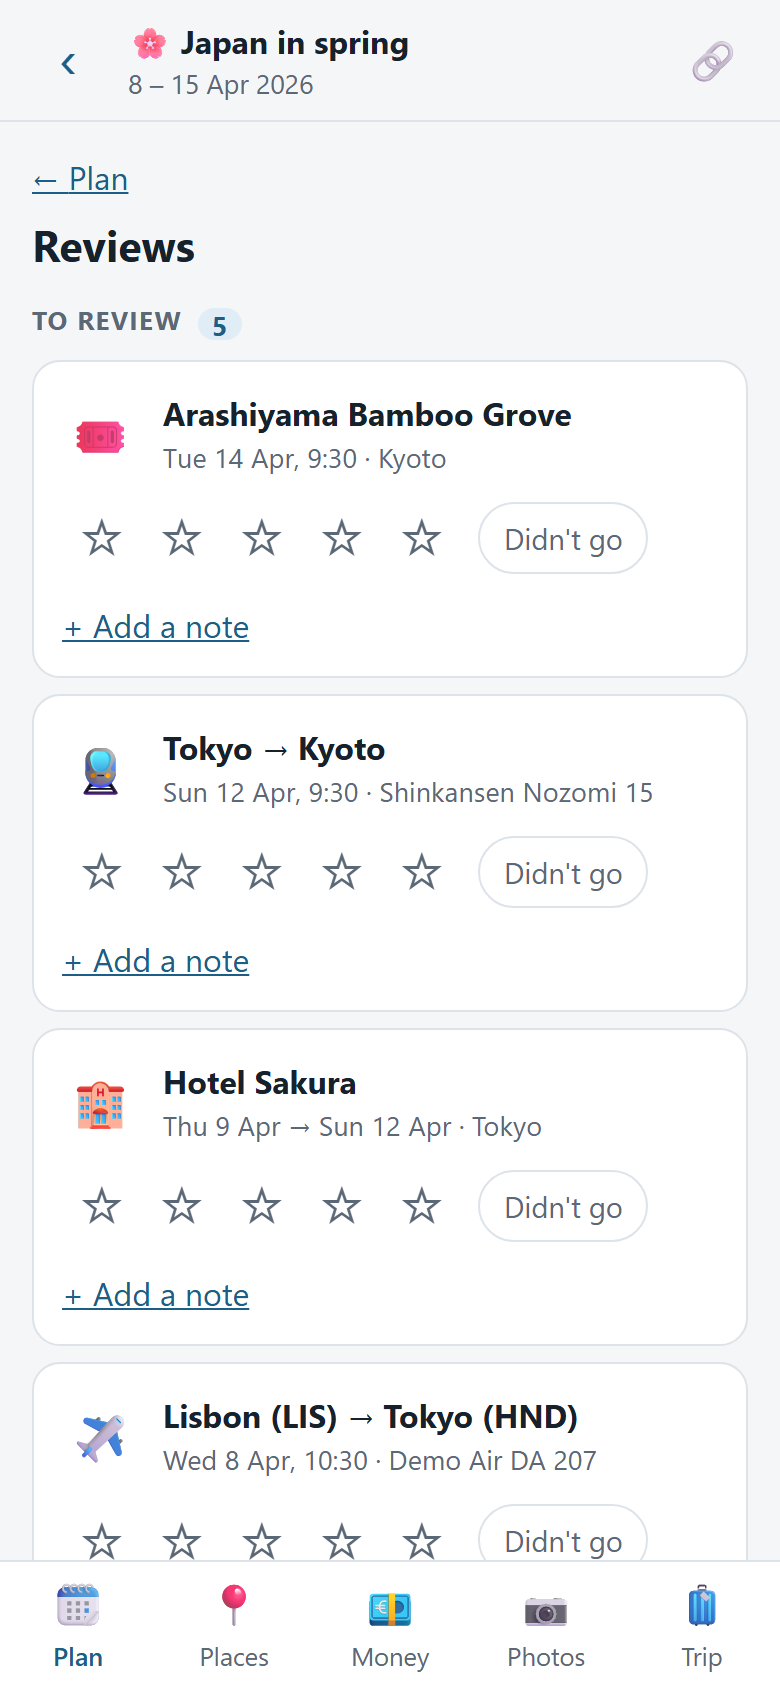
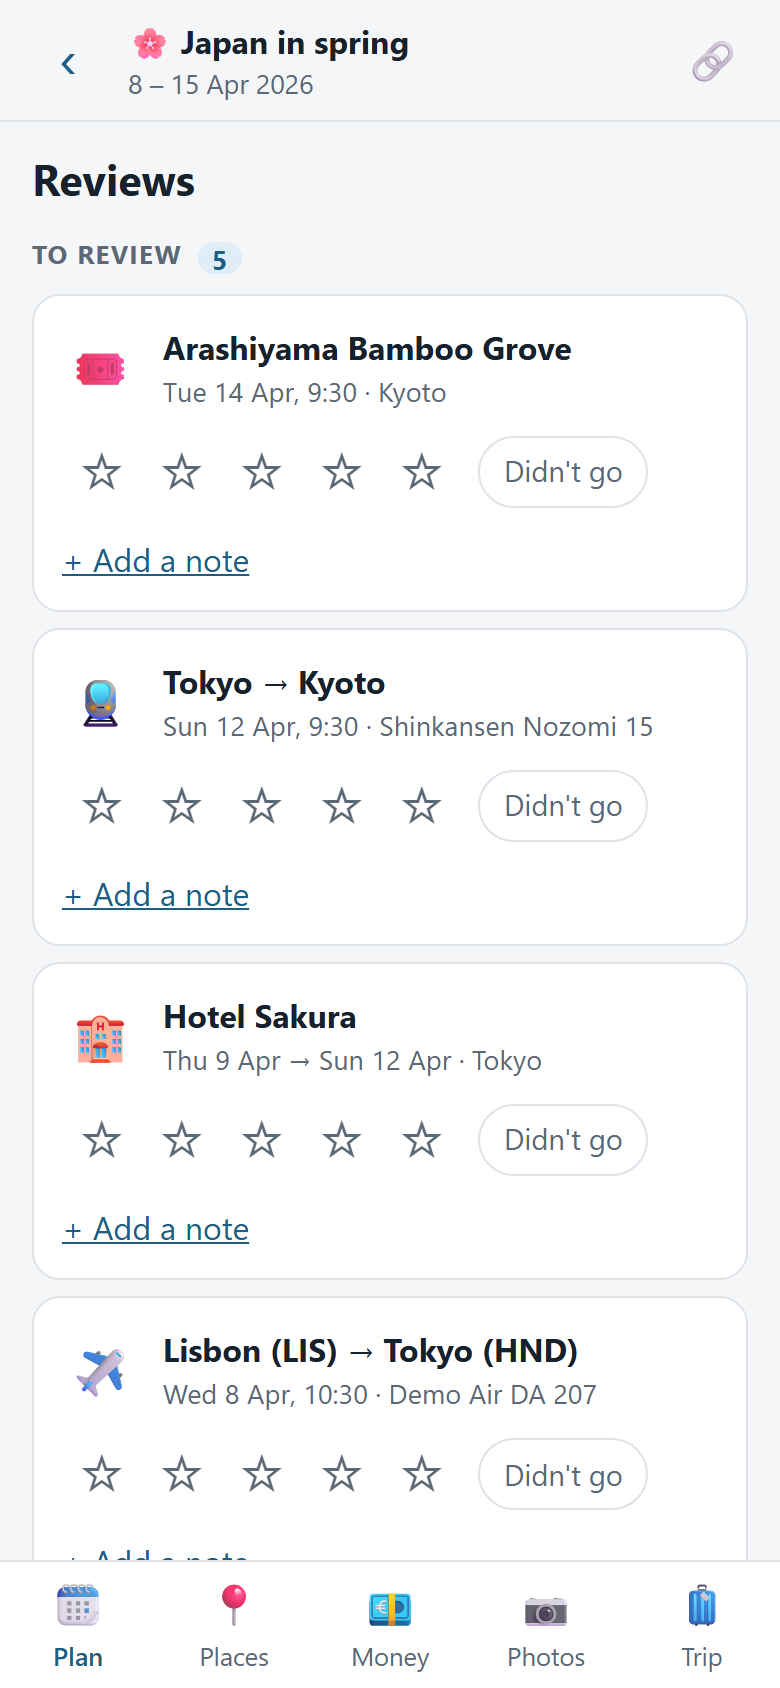
Back arrow goes back one screen (#41)
Inside a trip, the **‹** arrow at the top left now goes back one screen,
like the phone's back button. On the five tabs it still goes to the trip
list. Navigation only: no data, link, backup or sync changes.

- `src/ui/tripNav.ts`: `TABS` and `tabOf` moved here from
`TripLayout.tsx`, plus `topBarBack(pathname, over)`, which picks the
arrow's target (tested in `tripNav.test.ts`, 21 cases)
- `TripLayout.tsx`: tab pages keep `Link to="/"` labelled "All trips".
Every other trip page gets a "Back" button that calls `navigate(-1)`,
or, with nothing to go back to (a page opened fresh from a link),
replaces itself with its tab
- The small "← Plan / Places / Money / Trip / Back" links under the top
bar are removed from 11 trip pages, along with the attachment page's
`Back` component. New trip keeps "← Your trips"
- `GUIDE.md` gets one new paragraph, and the 5 screenshots that showed
the old links are re-taken
- Version 0.9.4 and a CHANGELOG entry
- Spec: `specs/back-arrow.md`, updated to match what shipped

Tested:
- `npm test` (253), lint, typecheck and build pass.
- `npm run guide:screenshots` finishes, so it still finds "All trips" on
Photos. It needs `npm run dev` running.

Manual checks still to do (phone width):
- On each of the five tabs, ‹ goes to the trip list.
- Plan → Add an activity → ‹ shows the Plan. After Save, ‹ on the
activity's page also shows the Plan.
- Activity → ✏ Edit → ‹ shows the activity → ‹ shows the Plan.
[…]

diff --git a/src/ui/TripLayout.tsx b/src/ui/TripLayout.tsx
@@ -1,6 +1,6 @@
 import { useLiveQuery } from 'dexie-react-hooks'
 import { useEffect } from 'react'
-import { Link, Outlet, useLocation, useParams } from 'react-router'
+import { Link, Outlet, useLocation, useNavigate, useParams } from 'react-router'
 import { setSetting, SETTINGS } from '../db/db'
 import { tripPhase } from '../domain/itinerary'
 import { EmptyState } from './components/bits'
@@ -8,30 +8,13 @@ import { ServerGoneNotice } from './components/ServerGoneNotice'
 import { fmtDayRange } from './format'
 import { useToday } from './hooks'
 import { loadTrip, needsLinks, TripContext, tripPath } from './tripData'
-
-const TABS = [
-  { key: 'plan', path: '', icon: '🗓', label: 'Plan' },
-  { key: 'places', path: 'places', icon: '📍', label: 'Places' },
-  { key: 'money', path: 'money', icon: '💶', label: 'Money' },
-  { key: 'photos', path: 'photos', icon: '📷', label: 'Photos' },
-  { key: 'trip', path: 'trip', icon: '🧳', label: 'Trip' },
-] as const
-
-/** Which tab a page belongs to, from the part of the path after /trips/<id>/. */
-function tabOf(section: string | undefined, over: boolean): (typeof TABS)[number]['key'] {
-  if (section === 'places') return 'places'
-  // The Plan tab leads to the report once the trip is over; before that, the Trip tab.
-  if (section === 'report') return over ? 'plan' : 'trip'
-  if (section === 'money' || section === 'expenses' || section === 'exchanges') return 'money'
-  if (section === 'photos' || section === 'files') return 'photos'
-  if (section === 'trip' || section === 'edit' || section === 'share' || section === 'server') return 'trip'
-  return 'plan'
-}
+import { TABS, tabOf, topBarBack } from './tripNav'
 
 export function TripLayout() {
   const { tripId = '' } = useParams()
   const data = useLiveQuery(() => loadTrip(tripId), [tripId])
   const { pathname } = useLocation()
+  const navigate = useNavigate()
   const today = useToday()
   const found = Boolean(data)
 
@@ -55,15 +38,31 @@ export function TripLayout() {
   }
 
   const { trip } = data
-  const active = tabOf(pathname.split('/')[3], tripPhase(trip, today).phase === 'past')
+  const over = tripPhase(trip, today).phase === 'past'
+  const active = tabOf(pathname.split('/')[3], over)
+  const back = topBarBack(pathname, over)
   const showUnsent = needsLinks(data)
   return (
     <TripContext.Provider value={data}>
       <header className="topbar">
         <div className="topbar-inner">
-          <Link className="icon-btn back" to="/" aria-label="All trips">
-            ‹
-          </Link>
+          {'to' in back ? (
+            <Link className="icon-btn back" to="/" aria-label="All trips">
+              ‹
+            </Link>
+          ) : (
+            <button
+              type="button"
+              className="icon-btn back"
+              aria-label="Back"
+              onClick={() => {
+                if ((window.history.state as { idx?: number } | null)?.idx) void navigate(-1)
+                else void navigate(back.fallback, { replace: true })
+              }}
+            >
+              ‹
+            </button>
+          )}
           <div className="topbar-title">
             <strong>
               {trip.emoji ?? '🧳'} {trip.name}

diff --git a/src/ui/items/attachments.tsx b/src/ui/items/attachments.tsx
@@ -8,7 +8,7 @@ import { openFile, shareFile } from '../../lib/shareSheet'
 import { fetchFull, retryUpload } from '../../sync/files'
 import { attachableItems, isPhoto, ownerFinder, parseTarget, photoTime, stateFinder, stateText, targetBooking, targetOf, tripPhotos, useObjectUrl } from '../attachments'
 import { BelongsToField, WholeBookingField } from '../components/Attachments'
-import { BackLink, DetailHead, Notice } from '../components/bits'
+import { DetailHead, Notice } from '../components/bits'
 import { NotesField, TextField } from '../components/fields'
 import { fmtBytes, fmtDayTime, fmtTimestamp } from '../format'
 import { usable, useServer } from '../hooks'
@@ -24,18 +24,6 @@ export function AttachmentPage() {
   const a = t.attachments.find((x) => x.id === itemId)
   if (!a) return <ItemGone backTo={tripPath(t.trip.id, 'photos')} />
   return <AttachmentView key={a.id} a={a} />
-}
-
-/** Back to where it was opened from (an item, the Photos tab), or to the Photos tab for a link opened afresh. */
-function Back({ fallback }: { fallback: string }) {
-  const navigate = useNavigate()
-  const opened = Boolean((window.history.state as { idx?: number } | null)?.idx)
-  if (!opened) return <BackLink to={fallback}>Photos</BackLink>
-  return (
-    <button type="button" className="link small back-link" onClick={() => navigate(-1)}>
-      ← Back
-    </button>
-  )
 }
 
 function AttachmentView({ a }: { a: Attachment }) {
@@ -83,7 +71,6 @@ function AttachmentView({ a }: { a: Attachment }) {
 
   return (
     <article className="stack">
-      <Back fallback={back} />
       {!isPhoto(a) && <DetailHead emoji="📄" title={a.name} subtitle={fmtBytes(a.size)} />}
       {image &&
         (full || preview ? (

diff --git a/src/ui/tripNav.ts b/src/ui/tripNav.ts
@@ -1,0 +1,29 @@
+import { tripPath } from './tripData'
+
+export const TABS = [
+  { key: 'plan', path: '', icon: '🗓', label: 'Plan' },
+  { key: 'places', path: 'places', icon: '📍', label: 'Places' },
+  { key: 'money', path: 'money', icon: '💶', label: 'Money' },
+  { key: 'photos', path: 'photos', icon: '📷', label: 'Photos' },
+  { key: 'trip', path: 'trip', icon: '🧳', label: 'Trip' },
+] as const
+
+/** Which tab a page belongs to, from the part of the path after /trips/<id>/. */
+export function tabOf(section: string | undefined, over: boolean): (typeof TABS)[number]['key'] {
+  if (section === 'places') return 'places'
+  // The Plan tab leads to the report once the trip is over; before that, the Trip tab.
+  if (section === 'report') return over ? 'plan' : 'trip'
+  if (section === 'money' || section === 'expenses' || section === 'exchanges') return 'money'
+  if (section === 'photos' || section === 'files') return 'photos'
+  if (section === 'trip' || section === 'edit' || section === 'share' || section === 'server') return 'trip'
+  return 'plan'
+}
+
+/** Where the top bar's arrow goes: the trip list on tab pages, otherwise back (or to the page's tab if there is no back). */
+export function topBarBack(pathname: string, over: boolean): { to: '/' } | { fallback: string } {
+  const parts = pathname.split('/')
+  const tripId = parts[2] ?? ''
+  const rest = parts.slice(3).filter(Boolean)
+  if (rest.length === 0 || (rest.length === 1 && TABS.some((t) => t.path !== '' && t.path === rest[0]))) return { to: '/' }
+  return { fallback: tripPath(tripId, TABS.find((t) => t.key === tabOf(rest[0], over))!.path) }
+}

diff --git a/src/ui/tripNav.test.ts b/src/ui/tripNav.test.ts
@@ -1,0 +1,29 @@
+import { describe, expect, it } from 'vitest'
+import { topBarBack } from './tripNav'
+
+describe('topBarBack', () => {
+  it.each(['/trips/t1', '/trips/t1/', '/trips/t1/places', '/trips/t1/money', '/trips/t1/photos', '/trips/t1/trip'])(
+    '%s goes to the trip list',
+    (p) => expect(topBarBack(p, false)).toEqual({ to: '/' }),
+  )
+
+  it.each([
+    ['/trips/t1/activities/new', '/trips/t1'],
+    ['/trips/t1/stays/s1', '/trips/t1'],
+    ['/trips/t1/transport/r1/edit', '/trips/t1'],
+    ['/trips/t1/reviews', '/trips/t1'],
+    ['/trips/t1/places/p1', '/trips/t1/places'],
+    ['/trips/t1/places/new', '/trips/t1/places'],
+    ['/trips/t1/expenses/e1', '/trips/t1/money'],
+    ['/trips/t1/exchanges/new', '/trips/t1/money'],
+    ['/trips/t1/files/f1', '/trips/t1/photos'],
+    ['/trips/t1/share', '/trips/t1/trip'],
+    ['/trips/t1/edit', '/trips/t1/trip'],
+    ['/trips/t1/server', '/trips/t1/trip'],
+  ])('%s falls back to %s', (p, fallback) => expect(topBarBack(p, false)).toEqual({ fallback }))
+
+  it('sends the report to the Plan once the trip is over, the Trip tab before', () => {
+    expect(topBarBack('/trips/t1/report', true)).toEqual({ fallback: '/trips/t1' })
+    expect(topBarBack('/trips/t1/report', false)).toEqual({ fallback: '/trips/t1/trip' })
+  })
+})

diff --git a/src/ui/pages/ReportPage.tsx b/src/ui/pages/ReportPage.tsx
@@ -7,11 +7,11 @@ import { fileSlug } from '../../lib/download'
 import { reportFile } from '../../lib/reportFile'
 import { shareFile } from '../../lib/shareSheet'
 import { photoTime, tripPhotos, useTripFiles } from '../attachments'
-import { BackLink, Notice } from '../components/bits'
+import { Notice } from '../components/bits'
 import { ReportView } from '../components/ReportView'
 import { fmtTimestamp, plural } from '../format'
 import { useNow, useToday } from '../hooks'
-import { nameOf, tripPath, useTrip, type TripData } from '../tripData'
+import { nameOf, useTrip, type TripData } from '../tripData'
 
 /** What the report is made from: the trip as it is on this phone, and the photos anyone may see. */
 const reportInput = (t: TripData): ReportInput => ({
@@ -95,7 +95,6 @@ export function ReportPage() {
   return (
     <>
       <div className="stack no-print">
-        <BackLink to={tripPath(tripId, over ? '' : 'trip')}>{over ? 'Plan' : 'Trip'}</BackLink>
         <h2>Trip report</h2>
         <Status over={over} kept={Boolean(kept)} unreadable={Boolean(t.report && !kept)} synced={synced} changes={changes} onMakeAgain={() => void makeAgain()} />
         <div className="segmented" role="tablist" aria-label="Version">

diff --git a/src/ui/items/places.tsx b/src/ui/items/places.tsx
@@ -3,7 +3,7 @@ import { Link, useParams, useSearchParams } from 'react-router'
 import { patchRecord } from '../../db/actions'
 import type { Place, PlaceCategory } from '../../db/types'
 import { mapQuery, safeHttpUrl } from '../../domain/links'
-import { BackLink, DetailHead, EmptyState } from '../components/bits'
+import { DetailHead, EmptyState } from '../components/bits'
 import { ChoiceChips, NotesField, TextField } from '../components/fields'
 import { AddressField, CityField } from '../components/PlaceFields'
 import { MapLinks, WebLink } from '../components/ItemLinks'
@@ -218,7 +218,6 @@ export function PlacePage() {
   const link = safeHttpUrl(place.link)
   return (
     <article className="stack">
-      <BackLink to={back}>Places</BackLink>
       <DetailHead emoji={category.emoji} title={place.name} subtitle={[category.label, place.city].filter(Boolean).join(' · ')} />
       <div className="actions">
         <button type="button" className="toggle-chip" aria-pressed={Boolean(place.mustSee)} onClick={() => void patchRecord('places', place.id, { mustSee: place.mustSee ? undefined : true })}>

diff --git a/src/ui/items/transport.tsx b/src/ui/items/transport.tsx
@@ -6,7 +6,7 @@ import { transportDuration, tripPhase } from '../../domain/itinerary'
 import { mapQuery } from '../../domain/links'
 import { airportCode } from '../../domain/places'
 import { isDay, zoneCity, zonedInstant } from '../../domain/time'
-import { BackLink, CopyCode, DetailHead } from '../components/bits'
+import { CopyCode, DetailHead } from '../components/bits'
 import { ChoiceChips, DateTimeField, NotesField, TextField, ZoneField } from '../components/fields'
 import { AirportField, CityField } from '../components/PlaceFields'
 import { CalendarLinks, MapLinks, WebLink } from '../components/ItemLinks'
@@ -128,7 +128,6 @@ export function TransportPage() {
   const zones = r.departTimeZone === arriveZone ? [r.departTimeZone] : [r.departTimeZone, arriveZone]
   return (
     <article className="stack">
-      <BackLink to={back}>Plan</BackLink>
       <DetailHead emoji={mode.emoji} title={`${r.from} → ${r.to}`} subtitle={[mode.label, r.carrier, r.number].filter(Boolean).join(' · ')} />
       <section className="card">
         <dl className="facts">

diff --git a/src/ui/items/stays.tsx b/src/ui/items/stays.tsx
@@ -5,7 +5,7 @@ import { stayEvent } from '../../domain/calendar'
 import { tripPhase } from '../../domain/itinerary'
 import { mapQuery } from '../../domain/links'
 import { addDays, daysBetween, isDay, toDay, zoneCity } from '../../domain/time'
-import { BackLink, CopyCode, DetailHead } from '../components/bits'
+import { CopyCode, DetailHead } from '../components/bits'
 import { ChoiceChips, DateTimeField, NotesField, TextField, ZoneField } from '../components/fields'
 import { AddressField, CityField } from '../components/PlaceFields'
 import { CalendarLinks, MapLinks, PhoneLink, WebLink } from '../components/ItemLinks'
@@ -127,7 +127,6 @@ export function StayPage() {
   const kind = labelOf(STAY_KINDS, stay.kind)
   return (
     <article className="stack">
-      <BackLink to={back}>Plan</BackLink>
       <DetailHead emoji={kind.emoji} title={stay.name} subtitle={[kind.label, stay.city].filter(Boolean).join(' · ')} />
       <section className="card">
         <dl className="facts">

diff --git a/src/ui/items/expenses.tsx b/src/ui/items/expenses.tsx
@@ -20,7 +20,7 @@ import {
 } from '../../domain/expenses'
 import { tripPhase } from '../../domain/itinerary'
 import { isDay } from '../../domain/time'
-import { BackLink, DetailHead, EmptyState, Notice } from '../components/bits'
+import { DetailHead, EmptyState, Notice } from '../components/bits'
 import { ChoiceChips, CurrencySelect, Field, NotesField, TextField } from '../components/fields'
 import { UnsentNotice } from '../components/UnsentNotice'
 import { fmtDay, fmtMoney, fmtPlain, plural } from '../format'
@@ -650,7 +650,6 @@ export function ExpensePage() {
   const paidWith = paidWithOf(e, cur)
   return (
     <article className="stack">
-      <BackLink to={back}>Money</BackLink>
       <DetailHead emoji={e.transfer ? '🤝' : label.emoji} title={e.title} subtitle={e.transfer ? 'Settle-up payment' : label.label} />
       <section className="card">
         <p className="big-number">{fmtMoney(e.amount, e.currency)}</p>

diff --git a/src/ui/pages/MoveToServerPage.tsx b/src/ui/pages/MoveToServerPage.tsx
@@ -2,7 +2,7 @@ import { useState } from 'react'
 import { Link, useNavigate } from 'react-router'
 import { moveTripToServer } from '../../db/actions'
 import type { ServerConfig } from '../../db/serverState'
-import { BackLink, EmptyState } from '../components/bits'
+import { EmptyState } from '../components/bits'
 import { Field, FormError } from '../components/fields'
 import { usable, useServer } from '../hooks'
 import { tripPath, useTrip, type TripData } from '../tripData'
@@ -77,7 +77,6 @@ function MoveForm({ t, server }: { t: TripData; server: ServerConfig }) {
 
   return (
     <form className="form" onSubmit={(e) => void onSubmit(e)}>
-      <BackLink to={tripPath(t.trip.id, 'trip')}>Trip</BackLink>
       <h2>Put “{t.trip.name}” on the server</h2>
       <p className="muted">
         Say who each traveller is on the server. They get the trip, and every change after it, by themselves. Anyone not on the server

diff --git a/src/ui/items/activities.tsx b/src/ui/items/activities.tsx
@@ -5,7 +5,7 @@ import { activityEvent } from '../../domain/calendar'
 import { tripPhase } from '../../domain/itinerary'
 import { mapQuery } from '../../domain/links'
 import { isDay, zoneCity } from '../../domain/time'
-import { BackLink, CopyCode, DetailHead } from '../components/bits'
+import { CopyCode, DetailHead } from '../components/bits'
 import { DateTimeField, Field, NotesField, TextField, ZoneField } from '../components/fields'
 import { AddressField, CityField } from '../components/PlaceFields'
 import { CalendarLinks, MapLinks, WebLink } from '../components/ItemLinks'
@@ -104,7 +104,6 @@ export function ActivityPage() {
   const place = t.places.find((p) => p.id === a.placeId)
   return (
     <article className="stack">
-      <BackLink to={back}>Plan</BackLink>
       <DetailHead emoji="🎟" title={a.title} subtitle={a.city} />
       <section className="card">
         <dl className="facts">

diff --git a/src/ui/pages/SharePage.tsx b/src/ui/pages/SharePage.tsx
@@ -4,10 +4,10 @@ import { exportTripFile, readTables } from '../../db/backupIO'
 import { downloadJSON, fileSlug } from '../../lib/download'
 import { shareUrl } from '../../lib/shareSheet'
 import { LONG_LINK_CHARS, tripLink } from '../../lib/tripLink'
-import { BackLink, Notice } from '../components/bits'
+import { Notice } from '../components/bits'
 import { Field } from '../components/fields'
 import { plural } from '../format'
-import { needsLinks, tripPath, useTrip } from '../tripData'
+import { needsLinks, useTrip } from '../tripData'
 
 export function SharePage() {
   const t = useTrip()
@@ -54,7 +54,6 @@ export function SharePage() {
 
   return (
     <>
-      <BackLink to={tripPath(trip.id, 'trip')}>Trip</BackLink>
       <h2>Share with the group</h2>
       {t.server && <ServerNote />}
       <p className="muted">
